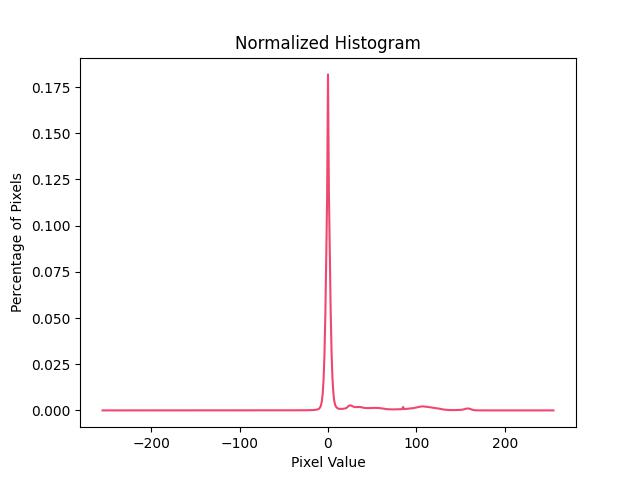
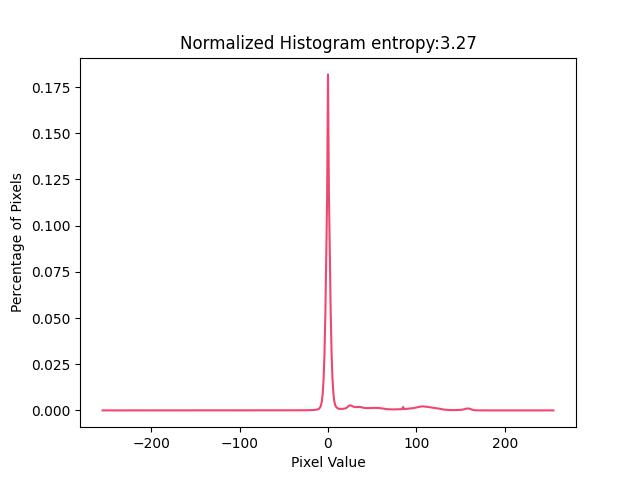
added entropy calcualtion

Changed region(s): [[0.2812, 0.0625, 0.75, 0.125]]

diff --git a/testset_build.py b/testset_build.py
@@ -5,6 +5,7 @@ import sys
 import imutils
 import mst 
 import glob
+from scipy.stats import entropy
 
 def Generate_Naive_Testset_Cropping(img):
     """
@@ -378,11 +379,12 @@ def generate_histogram(img, do_print, filename):
         print_histogram(gr_hist, filename, title="Normalized Histogram")
     return gr_hist, gr_img
 
-def print_histogram(_histrogram, filename, title):
+def print_histogram(_histogram, filename, title):
     plt.figure()
-    plt.title(title)
+    entro = entropy(_histogram)
+    plt.title(title+' entropy:'+str(entro)[:4])
     X = np.linspace(-255, 255, 511, endpoint=True)
-    plt.plot(X, _histrogram, color='#ef476f')
+    plt.plot(X, _histogram, color='#ef476f')
     plt.ylabel('Percentage of Pixels')
     plt.xlabel('Pixel Value')
     plt.savefig("./data/hist_" + filename +'.jpeg')
@@ -410,7 +412,7 @@ def generatePredictImg(parentImg, childImg, filename):
     diffMatrix = np.subtract(childImg,childReg)
     gr_hist1, gr_img1 = generate_histogram(diffMatrix, 1, filename)
     return childReg
-
+    
 if __name__ == '__main__':
     # img = cv.imread('./data/flower.jpg', cv.IMREAD_UNCHANGED)
     # scaling_test_set = Generate_Naive_Testset_Scaling(img)
@@ -428,7 +430,7 @@ if __name__ == '__main__':
     print(g.graph)
     parent = g.primMST()
     plotDiff(parent, name)
-
+    
     
 
 # img2 = cv.imread('rotated_img2.jpeg')
